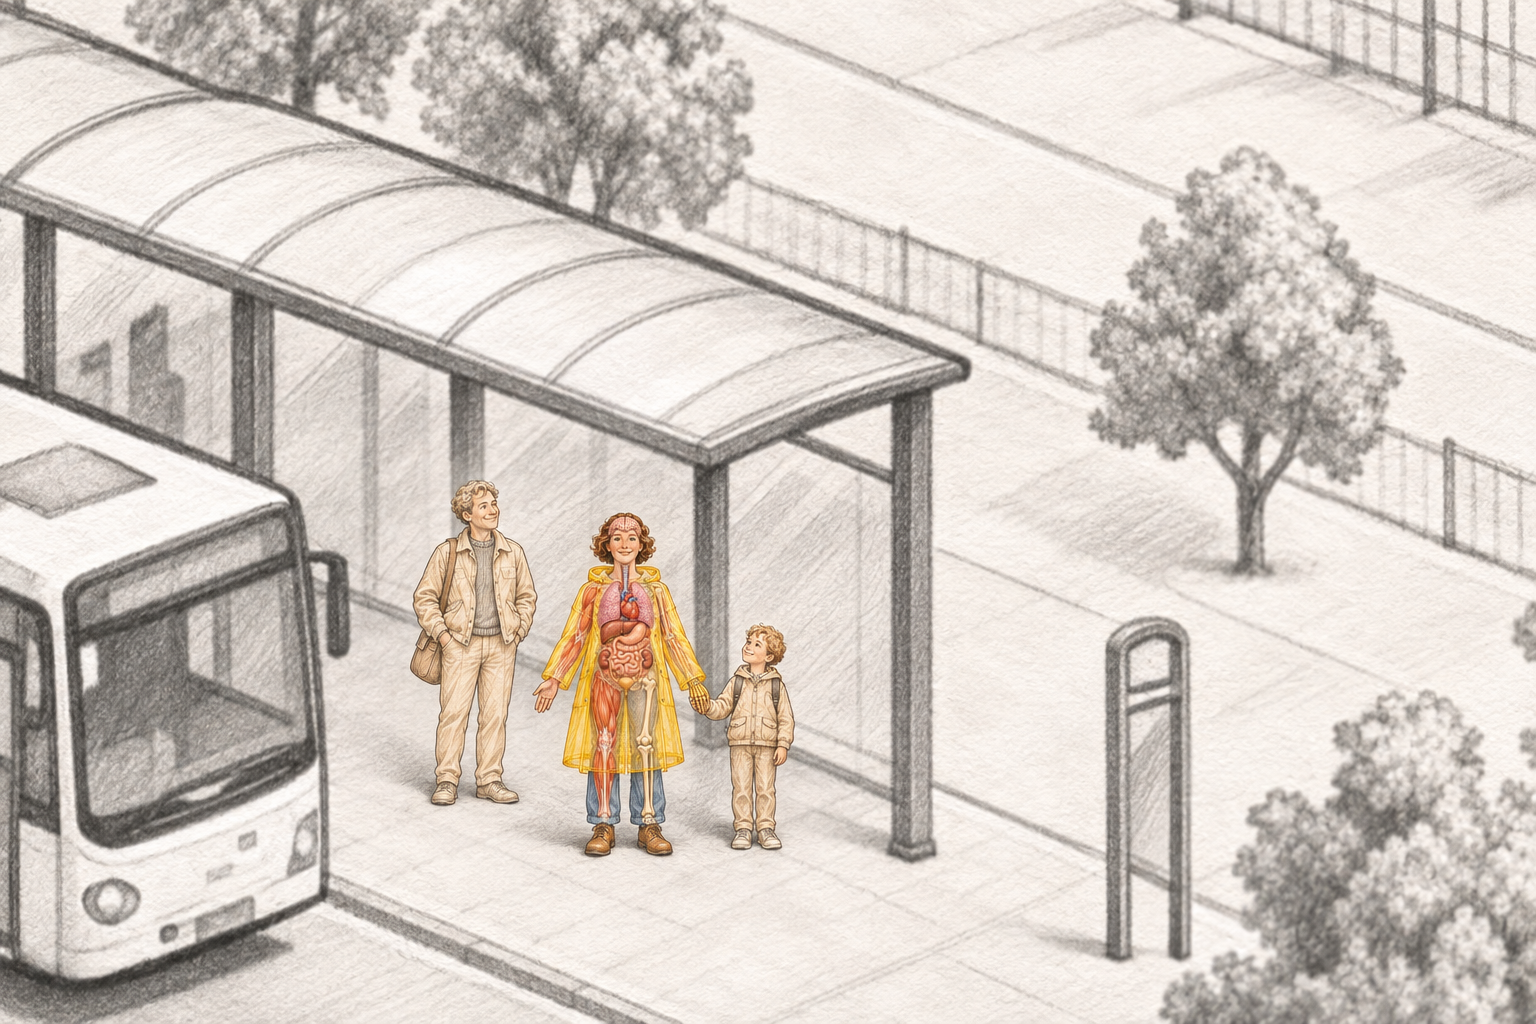
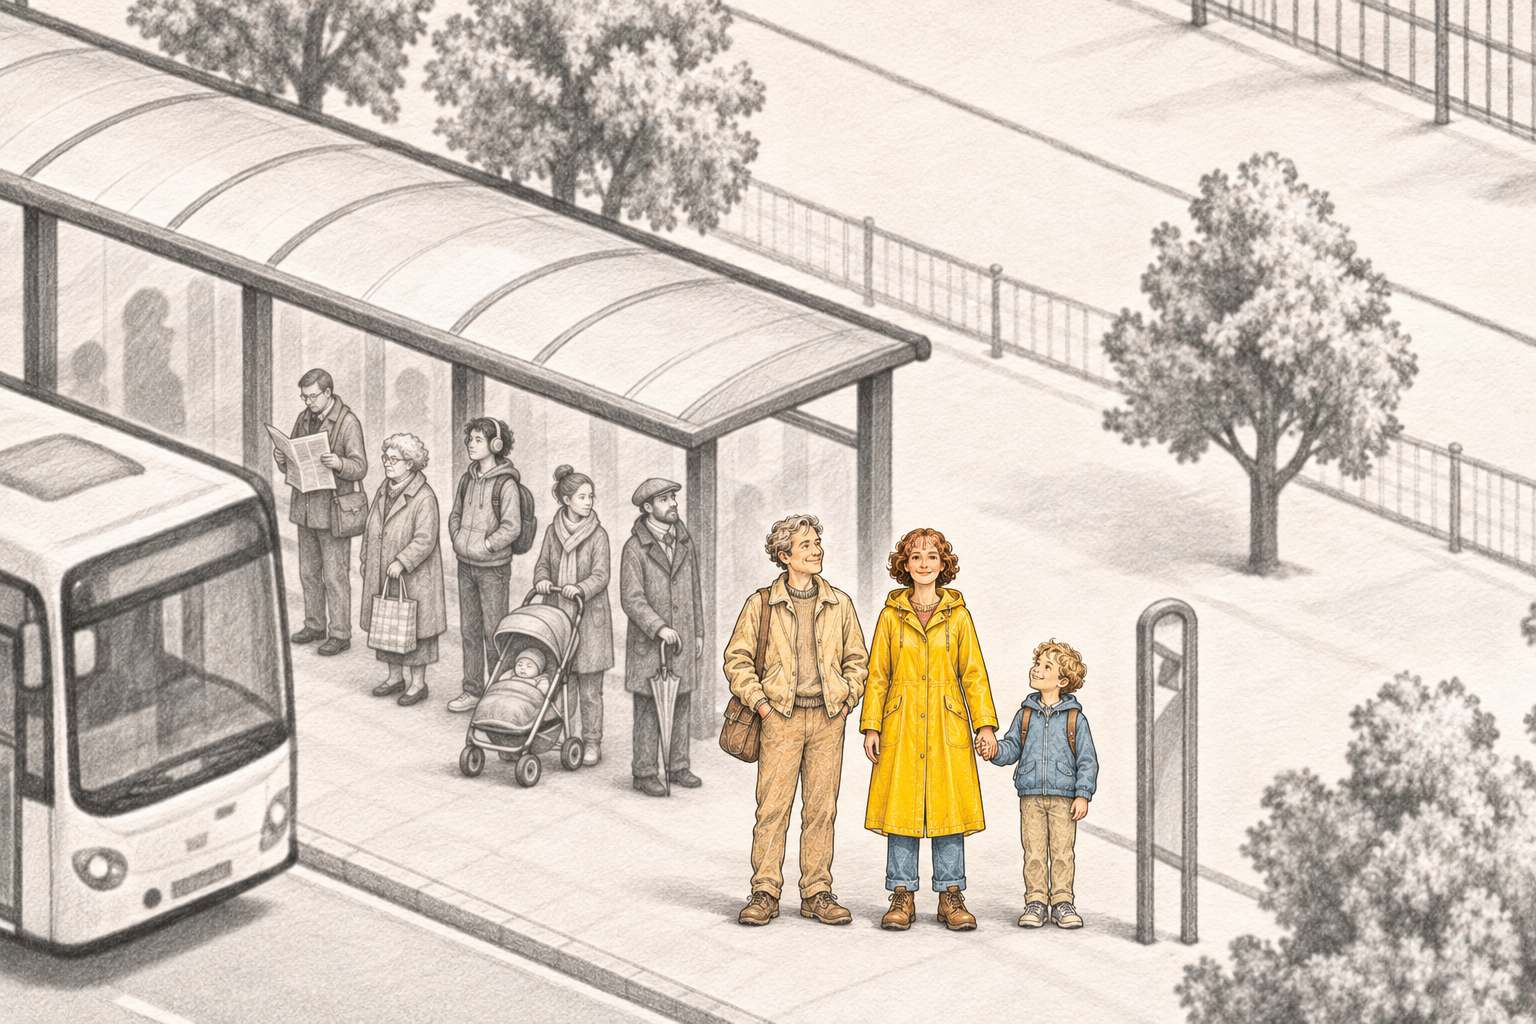
Sharp map from the first frame; the family stands out from a grey queue at the stop
Map and plate tiles that finished loading never re-checked whether they should show,
so the city stayed on its low-resolution base until the camera moved. They now update
on load, and the threshold counts screen pixels. The bus stop has a pencil queue with
the coloured family in front, bigger and outlined, painted from the body plate.

diff --git a/src/app.js b/src/app.js
@@ -45,7 +45,7 @@
     const [x, y, w, h] = t.rect;
     const img = new Image(); img.decoding = "async";
     const wt = { ...t, x, y, w, h, img, loaded: false, wanted: false, a: 0, target: 0, on: (WORLD.baseScale || 2) * .95 };
-    img.addEventListener("load", () => { wt.loaded = true; requestDraw(); }, { once: true });
+    img.addEventListener("load", () => { wt.loaded = true; updateWorldTiles(); requestDraw(); }, { once: true });
     return wt;
   });
   const loadWT = t => { if (!t.wanted) { t.wanted = true; t.img.src = t.src; } };
@@ -202,7 +202,7 @@
       const img = new Image(); img.decoding = "async";
       const parentDensity = t.level === 2 ? 1 : TILE_PX / S.TILES[key.split("/")[0]].rect[2];
       const tile = { key, level: t.level, x, y, w, h, img, on: parentDensity * 1.15, loaded: false, wanted: false, a: 0, target: 0 };
-      img.addEventListener("load", () => { tile.loaded = true; requestDraw(); }, { once: true });
+      img.addEventListener("load", () => { tile.loaded = true; updateTiles(); requestDraw(); }, { once: true });
       return tile;
     });
     // drawing order: bigger repaints first, smaller (more detailed) ones on top, deepest level last
@@ -401,7 +401,8 @@
     const vx0 = -wc.x / ws, vy0 = -wc.y / ws, vx1 = (W - wc.x) / ws, vy1 = (H - wc.y) / ws;
     for (const t of wtiles) {
       const visible = wc.r ? true : t.x < vx1 && t.x + t.w > vx0 && t.y < vy1 && t.y + t.h > vy0;
-      const need = Math.min(1, Math.max(0, (ws - t.on * .75) / (t.on * .25)));
+      const eff = ws * Math.min(2, devicePixelRatio || 1);          // screen pixels per map pixel
+      const need = Math.min(1, Math.max(0, (eff - t.on * .75) / (t.on * .25)));
       if (visible && need > 0) loadWT(t);
       t.target = visible && t.loaded ? need : 0;
     }

diff --git a/world/src/world.js b/world/src/world.js
@@ -3,7 +3,7 @@
 // (left end to right end of the vehicle) that is matched to plateAxis on its encyclopedia plate,
 // so the camera can fly until the drawing lies exactly on the plate before dissolving into it.
 window.WORLD_DATA = {
-  baseScale: .8,                      // sharper city tiles fade in once the city is shown this large
+  baseScale: .9,                      // sharper city tiles fade in once the city is drawn at this many screen pixels per map pixel
   focus: [430, 420],                  // phones open here, around the jet and the tram
   spots: {
     plane: {
